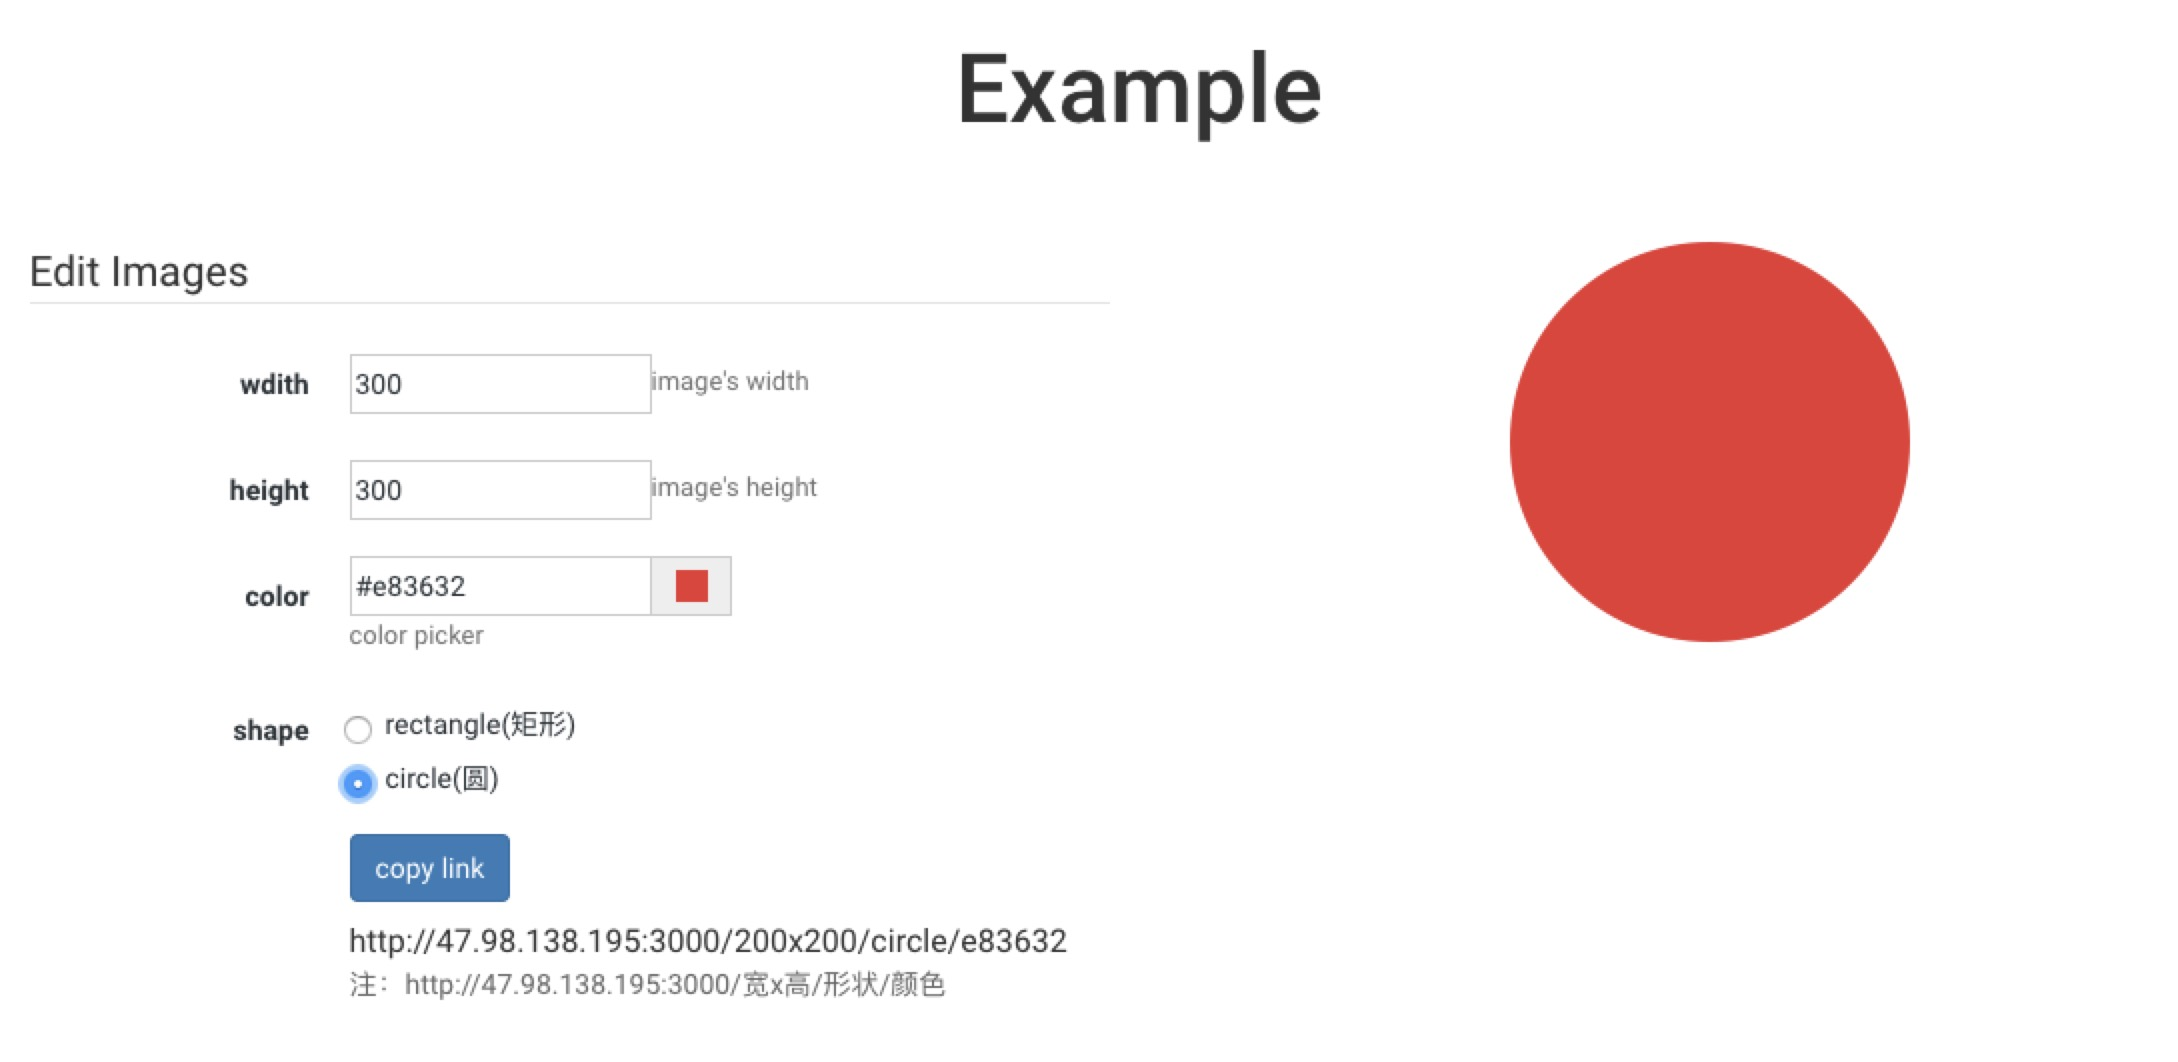
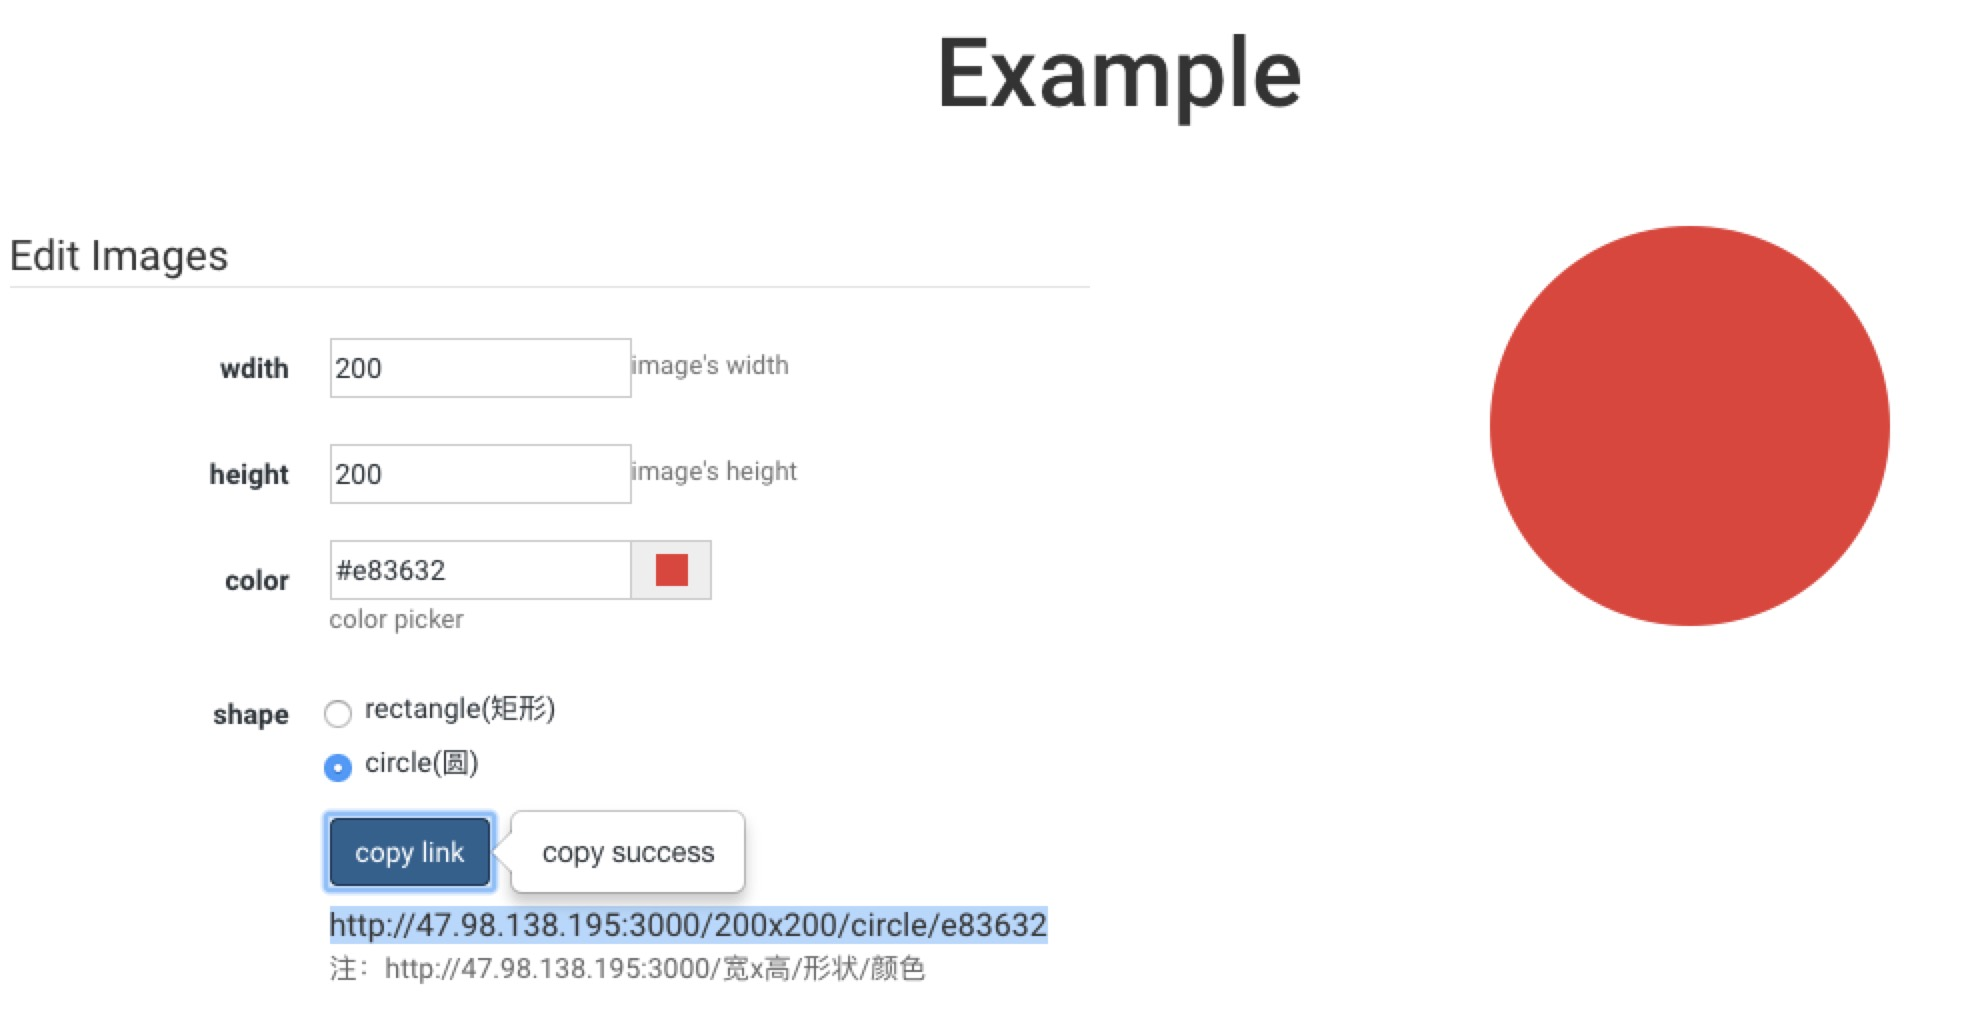
change create img

diff --git a/_site/about/index.html b/_site/about/index.html
@@ -112,7 +112,7 @@
 
 <article class="notepad-page-content">
                     <div>
-<p>Thanks For showing intrest to check about me, i’m <strong>Enhui Rao</strong>. I cook delicias code cousins for fun. I’m a Born engineer,Tech savvy, programmer, computer lover, automobiles fan, like to play anykind of machine!, curious towards css3,html5,ruby,nodejs,reactjs,ES6.This is my personal blog. It currently has 24 posts in 13 categories which combinedly have 8699 words, which will take an average reader ( WPM) approximately <span class="time">43.495</span> minutes to read.  The most recent post is <a href="https://raoenhui.github.io/nodejs/git/2018/08/10/preventcommit/" title="Read more about git commit前检测husky与pre-commit">“git commit前检测husky与pre-commit”</a> which was published on <time datetime="2018-08-10T21:00:00+05:30" class="post-time">10 Aug 2018</time>. The last commit was on Friday, 10 Aug 2018 at 05:57 PM <a href="http://en.wikipedia.org/wiki/Coordinated_Universal_Time" title="Temps Universel Coordonné">UTC</a>.</p>
+<p>Thanks For showing intrest to check about me, i’m <strong>Enhui Rao</strong>. I cook delicias code cousins for fun. I’m a Born engineer,Tech savvy, programmer, computer lover, automobiles fan, like to play anykind of machine!, curious towards css3,html5,ruby,nodejs,reactjs,ES6.This is my personal blog. It currently has 24 posts in 13 categories which combinedly have 8699 words, which will take an average reader ( WPM) approximately <span class="time">43.495</span> minutes to read.  The most recent post is <a href="https://raoenhui.github.io/nodejs/git/2018/08/10/preventcommit/" title="Read more about git commit前检测husky与pre-commit">“git commit前检测husky与pre-commit”</a> which was published on <time datetime="2018-08-10T21:00:00+05:30" class="post-time">10 Aug 2018</time>. The last commit was on Friday, 10 Aug 2018 at 06:02 PM <a href="http://en.wikipedia.org/wiki/Coordinated_Universal_Time" title="Temps Universel Coordonné">UTC</a>.</p>
 
 <p><strong>前端妹子一枚，我平时比较繁忙（打杂、犯花痴、偷窥帅锅是正业，副业：码农、前端）,所以知识点有些可能会有问题，看不过眼（强迫症的请重视我的后面一句），欢迎小伙伴们帮忙评论修改。</strong></p>
 

diff --git a/_site/nodejs/koa/2018/05/01/createImg/index.html b/_site/nodejs/koa/2018/05/01/createImg/index.html
@@ -213,8 +213,8 @@
 
 <h2 id="第三步-demo">第三步 demo</h2>
 
-<p>如想获取宽高为300px，颜色为#e04c4c的圆形。
-<a href="http://47.98.138.195:3000/300x300/circle/e04c4c">http://47.98.138.195:3000/300x300/circle/e04c4c</a></p>
+<p>如想获取宽高为200px，颜色为#e83632的圆形。
+<a href="http://47.98.138.195:3000/200x200/circle/e83632">http://47.98.138.195:3000/200x200/circle/e83632</a></p>
 
 <p><img src="https://raoenhui.github.io/images/180501/demo.png" alt="website" /></p>
 

diff --git a/_posts/2018-05-01-createImg.md b/_posts/2018-05-01-createImg.md
@@ -103,8 +103,8 @@ module.exports = function (params) {
 
 ## 第三步 demo
 
-如想获取宽高为300px，颜色为#e04c4c的圆形。
-[http://47.98.138.195:3000/300x300/circle/e04c4c](http://47.98.138.195:3000/300x300/circle/e04c4c)
+如想获取宽高为200px，颜色为#e83632的圆形。
+[http://47.98.138.195:3000/200x200/circle/e83632](http://47.98.138.195:3000/200x200/circle/e83632)
 
 ![website]({{ site.url }}/images/180501/demo.png)
 
